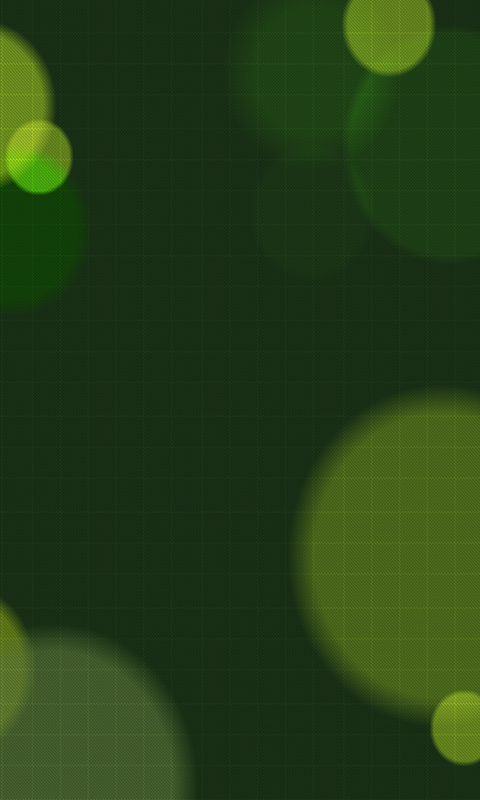
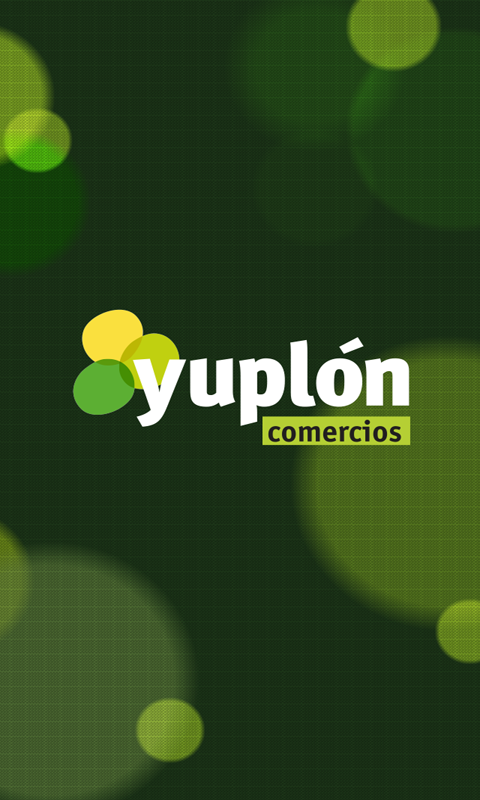
Adding new scren for app.html, changed splash screen for ios

diff --git a/yuplonApp/platforms/ios/www/css/index.css b/yuplonApp/platforms/ios/www/css/index.css
@@ -51,8 +51,10 @@ body {
     display:inline-block;
 }
 
-h2{
+h2,span{
 	color:#719721;
+	font-size:1.5em;
+	text-transform:initial;
 }
 /* Portrait layout (default) */
 .app {
@@ -64,7 +66,40 @@ h2{
 	float: left;
 }
 
-.Redimir{
+.scanning, .view-window{
+	width:33.3333%;
+}
+
+.scan-window {
+	width:300% !important;
+}
+
+.back {
+    position: absolute;
+    top: 1.5em;
+    left: 1.4em;
+}
+
+.back:after {
+    border: 3px solid #719721;
+    border-right: 3px solid transparent;
+    border-top: 3px solid transparent;
+    content: " ";
+    height: 0.5em;
+    left: -0.7em;
+    position: absolute;
+    top: 0.2em;
+    -webkit-transform: rotate(45deg);
+    transform: rotate(45deg);
+    width: 0.5em;
+}
+
+.scan {
+	float: right;
+	margin-top: -5%;
+	margin: -5% 2% 0 0;}
+
+.Redimir, .RedimirNuevo{
 	position: absolute;
 	bottom: 5%;
 	right: 5%;
@@ -90,11 +125,17 @@ h2{
 	text-align:center;
 	margin-top: 30%;
 }
-.inputs{
+.inputs, .comprobantes ul{
 	margin	: 8% 0 0;
 	background:#FFF;
 	border-top: 1px groove #D7D7D7;
 	border-bottom: 1px groove #D7D7D7;
+}
+.comprobantes li {
+    width:50%;
+    height:1em;
+    font-size:1.5em;
+    padding:0.5em;
 }
 .inputs input{
 	border:none;
@@ -119,7 +160,7 @@ h2{
 }
 
 h1 {
-    font-size:24px;
+    font-size:1.7em;
     font-weight:normal;
     margin:0px;
     overflow:visible;
@@ -153,7 +194,7 @@ header {
 	float: left;}
 
 header h1 {
-	margin-top:6%;
+	margin-top:8%;
 }
 
 .event {
@@ -185,8 +226,41 @@ header h1 {
 	top: 0;
 }
 
+.scanning .inputs{
+	display: inline-block;
+	width: 90%;
+	background: transparent;
+	border: none;
+	padding: 0 5%;
+}
+
+.scanning .inputs input{
+	width: 77%;
+	float: left;
+	line-height: 160%;
+	border-radius: 10px;
+	border: 1px solid #c3c3c3;
+	padding: 3% 3% 3% 20%;
+}
+
+.mask-sharp{
+	position: absolute;
+	left: 10%;
+	line-height: 160%;
+	border-right: 1px groove;
+	padding-right: 2%;
+	font-size: 3em;
+	margin-top:1%;
+}
+
+
 .move{
--webkit-transform: translate3d(-50%,0,0);}
+-webkit-transform: translate3d(-50%,0,0);
+}
+
+.moveApp{
+    -webkit-transform: translate3d(-33.3333%,0,0);
+}
 
 
 @keyframes fade {

diff --git a/yuplonApp/www/js/app.js b/yuplonApp/www/js/app.js
@@ -3,16 +3,41 @@ $(function(){
 			var mainHeight =$(dom).height()
 				app = $(".app"),
 				container = $(".containerIndex"),
-				redimir = $(".Redimir")[0];
+				redimir = $(".Redimir")[0],
+                backButton = $(".back")[0],
+                maskElem = $(".mask");
 				
 			bindEvents =(function(){
 				app.css({'height':mainHeight});
 				$('.mask').mask('ZZ-ZZZZZ-ZZZ-ZZ',{placeholder:"XX-XXXXX-XXX-XX",translation:{'Z':{pattern:/^[a-zA-Z0-9]+$/,optional:false}}});
-				//var hammertime = Hammer(redimir,{swipe_max_touches:5});
-				//hammertime.on("tap",function(){window.location.href="app.html"});
+				var red = Hammer(redimir,{swipe_max_touches:5}),
+                         back = Hammer(backButton,{swipe_max_touches:5});
+				red.on("tap",function(){
+                       validateComp(maskElem.val(),container);
+                });
+                back.on("tap",function(){
+                        setTimeout(function(){
+                            container.css("-webkit-transform","translate3d(0,0,0)");
+                        },100);
+                });
 				
 			})();
+         
+            function validateComp(val,elem) {
+         
+                var isValid = true,
+                    resultElem = $(".comprobantes ul li");
+                if (isValid) {
+                    resultElem.html(val);
+                    elem.css("-webkit-transform","translate3d(-33.3333%,0,0)");
+                    setTimeout(function(){
+                               alert("Comprobante ingresado correctamente");
+                    },1000);
+                }
+         
+            }
 			
 			
 		})(jQuery, document);
 });
+

diff --git a/yuplonApp/www/css/index.css b/yuplonApp/www/css/index.css
@@ -66,7 +66,7 @@ h2,span{
 	float: left;
 }
 
-.scanning{
+.scanning, .view-window{
 	width:33.3333%;
 }
 
@@ -74,12 +74,32 @@ h2,span{
 	width:300% !important;
 }
 
+.back {
+    position: absolute;
+    top: 1.5em;
+    left: 1.4em;
+}
+
+.back:after {
+    border: 3px solid #719721;
+    border-right: 3px solid transparent;
+    border-top: 3px solid transparent;
+    content: " ";
+    height: 0.5em;
+    left: -0.7em;
+    position: absolute;
+    top: 0.2em;
+    -webkit-transform: rotate(45deg);
+    transform: rotate(45deg);
+    width: 0.5em;
+}
+
 .scan {
 	float: right;
 	margin-top: -5%;
 	margin: -5% 2% 0 0;}
 
-.Redimir{
+.Redimir, .RedimirNuevo{
 	position: absolute;
 	bottom: 5%;
 	right: 5%;
@@ -105,11 +125,17 @@ h2,span{
 	text-align:center;
 	margin-top: 30%;
 }
-.inputs{
+.inputs, .comprobantes ul{
 	margin	: 8% 0 0;
 	background:#FFF;
 	border-top: 1px groove #D7D7D7;
 	border-bottom: 1px groove #D7D7D7;
+}
+.comprobantes li {
+    width:50%;
+    height:1em;
+    font-size:1.5em;
+    padding:0.5em;
 }
 .inputs input{
 	border:none;
@@ -168,7 +194,7 @@ header {
 	float: left;}
 
 header h1 {
-	margin-top:6%;
+	margin-top:8%;
 }
 
 .event {
@@ -229,7 +255,12 @@ header h1 {
 
 
 .move{
--webkit-transform: translate3d(-50%,0,0);}
+-webkit-transform: translate3d(-50%,0,0);
+}
+
+.moveApp{
+    -webkit-transform: translate3d(-33.3333%,0,0);
+}
 
 
 @keyframes fade {

diff --git a/yuplonApp/platforms/ios/www/index.html b/yuplonApp/platforms/ios/www/index.html
@@ -29,11 +29,12 @@
         <link rel="stylesheet" type="text/css" href="css/reset.css" />
         <link rel="stylesheet" type="text/css" href="css/index.css" />
         <script type="text/javascript" src="js/lib/jquery.js"></script>
-        <title>Hello World</title>
+        <script type="text/javascript" src="js/lib/hammerjs.js"></script>
+        <title>Yuplon App</title>
     </head>
     <body>
 	    <div class="containerIndex">
-	    	<div class="Splash"></div>
+	    	<!-- <div class="Splash"></div> -->
 	    	<div class="app">
 	        	<header class="Menu"><h1>Ingres&#225;</h1></header>
 	            <div class="login">
@@ -44,7 +45,7 @@
 	            		<input type="password" placeholder="Contraseña"/>
 	            	</div>
 	        	</div>
-	        	<button class="Redimir">Redimir Comprobante</button>
+	        	<button class="Redimir">Iniciar Sesión</button>
         	</div>
 	    </div>
         

diff --git a/yuplonApp/www/app.html b/yuplonApp/www/app.html
@@ -49,6 +49,21 @@
 	        	</div>
 	        	<button class="Redimir">Redimir Comprobante</button>
         	</div>
+            <div class="app view-window">
+                    <header class="Menu">
+                        <h1>Comprobantes</h1>
+                        <span class="back">Atrás</span>
+                    </header>
+                    <div class="login">
+                        <h2>Ingrese el numero de comprobante</h2>
+                        <div class="comprobantes">
+                            <ul>
+                                <li></li>
+                            </ul>
+                        </div>
+                    </div>
+                    <button class="RedimirNuevo">Redimir Comprobante</button>
+            </div>
 	    </div>
         
         <script type="text/javascript" src="cordova.js"></script>

diff --git a/yuplonApp/www/spec.html b/yuplonApp/www/spec.html
@@ -22,7 +22,7 @@
         <title>Jasmine Spec Runner</title>
 
         <!-- jasmine source -->
-        <link rel="shortcut icon" type="image/png" href="spec/lib/jasmine-1.2.0/jasmine_favicon.png">
+        <link rel="shortcut icon" type="image/png" href="spec/lib/jasmine-1.2.0/jasmine_uyuyyufavicon.png">
         <link rel="stylesheet" type="text/css" href="spec/lib/jasmine-1.2.0/jasmine.css">
         <script type="text/javascript" src="spec/lib/jasmine-1.2.0/jasmine.js"></script>
         <script type="text/javascript" src="spec/lib/jasmine-1.2.0/jasmine-html.js"></script>

diff --git a/yuplonApp/www/index.html b/yuplonApp/www/index.html
@@ -30,11 +30,11 @@
         <link rel="stylesheet" type="text/css" href="css/index.css" />
         <script type="text/javascript" src="js/lib/jquery.js"></script>
         <script type="text/javascript" src="js/lib/hammerjs.js"></script>
-        <title>Hello World</title>
+        <title>Yuplon App</title>
     </head>
     <body>
 	    <div class="containerIndex">
-	    	<div class="Splash"></div>
+	    	<!-- <div class="Splash"></div> -->
 	    	<div class="app">
 	        	<header class="Menu"><h1>Ingres&#225;</h1></header>
 	            <div class="login">

diff --git a/yuplonApp/platforms/ios/www/js/index.js b/yuplonApp/platforms/ios/www/js/index.js
@@ -33,7 +33,11 @@ var app = {
     // The scope of 'this' is the event. In order to call the 'receivedEvent'
     // function, we must explicitly call 'app.receivedEvent(...);'
     onDeviceReady: function() {
+        setTimeout(function() {
+                navigator.splashscreen.hide();
+        }, 2000);
         app.receivedEvent('deviceready');
+        
     },
     // Update DOM on a Received Event
     receivedEvent: function(id) {

diff --git a/yuplonApp/www/js/index.js b/yuplonApp/www/js/index.js
@@ -33,7 +33,11 @@ var app = {
     // The scope of 'this' is the event. In order to call the 'receivedEvent'
     // function, we must explicitly call 'app.receivedEvent(...);'
     onDeviceReady: function() {
+        setTimeout(function() {
+                navigator.splashscreen.hide();
+        }, 2000);
         app.receivedEvent('deviceready');
+        
     },
     // Update DOM on a Received Event
     receivedEvent: function(id) {

diff --git a/yuplonApp/www/js/script.js b/yuplonApp/www/js/script.js
@@ -6,9 +6,9 @@ $(function(){
 				redimir = $(".Redimir")[0];
 				
 			bindEvents =(function(){
-				setTimeout(function(){
+				/*setTimeout(function(){
 					container.addClass("move");
-				},4000);
+				},4000);*/
 				app.css({'height':mainHeight});
 				var hammertime = Hammer(redimir,{swipe_max_touches:5});
 				hammertime.on("tap",function(){window.location.href="app.html"});

diff --git a/yuplonApp/platforms/ios/Yuplon/main.m b/yuplonApp/platforms/ios/Yuplon/main.m
@@ -17,10 +17,10 @@
  under the License.
  */
 //
-//  main.m
+//  main.m/Users/kevin/Documents/yuplon/yuplonApp/www/app.html
 //  Yuplon
 //
-//  Created by ___FULLUSERNAME___ on ___DATE___.
+//  Created by ___FULLUSERNAME___ on /Users/kevin/Documents/yuplon/yuplonApp/www/app.html___DATE___.
 //  Copyright ___ORGANIZATIONNAME___ ___YEAR___. All rights reserved.
 //
 
